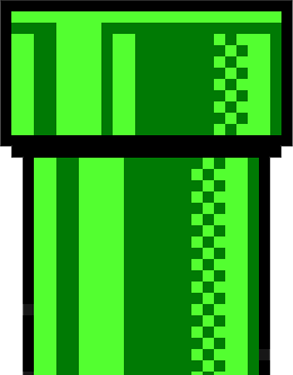
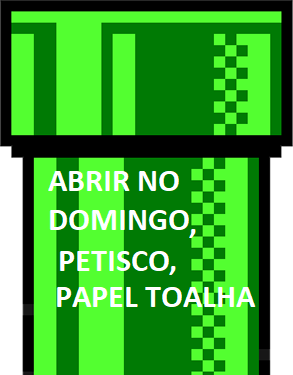
segundo commit alterações

diff --git a/index.html b/index.html
@@ -6,13 +6,14 @@
     <title>Bar do Denão</title>
     <link rel="stylesheet" href="/css/style.css">
     <script src="/js/script.js" defer></script>
+    <link rel="shortcut icon" href="/img/Imagem do WhatsApp de 2024-05-21 à(s) 23.32.51_a0361bb3.png" >
 </head>
 <body>
     
 </body>
 
 <div class="game-board">
-    <img class="pipe" src="/img/pipe.png" alt="tubo">
+    <img class="pipe" src="/img/png-transparent-sign-wood-billboard-s-angle-white-text-removebg-preview.png" alt="tubo">
     <img class="mario" src="/img/202405212326-unscreen.gif" alt="">
     <img class="clouds" src="/img/clouds.png" alt="">
 </div>

diff --git a/js/script.js b/js/script.js
@@ -14,7 +14,7 @@ const loop = setInterval(() => {
     const pipePosition = pipe.offsetLeft
     const marioPosition = +window.getComputedStyle(mario).bottom.replace("px", "")
 
-    if (pipePosition <= 120 && pipePosition > 0 && marioPosition < 80) {
+    if (pipePosition <= 120 && pipePosition > 0 && marioPosition < 120) {
 
         pipe.style.animation = "none"
         pipe.style.left = `${pipePosition}px`

diff --git a/CSS/style.css b/CSS/style.css
@@ -17,7 +17,7 @@
 .pipe {
     position: absolute;
     bottom: 0;
-    width: 80px;
+    width: 140px;
     animation: pipe-animation 2s infinite linear;
 
 }
